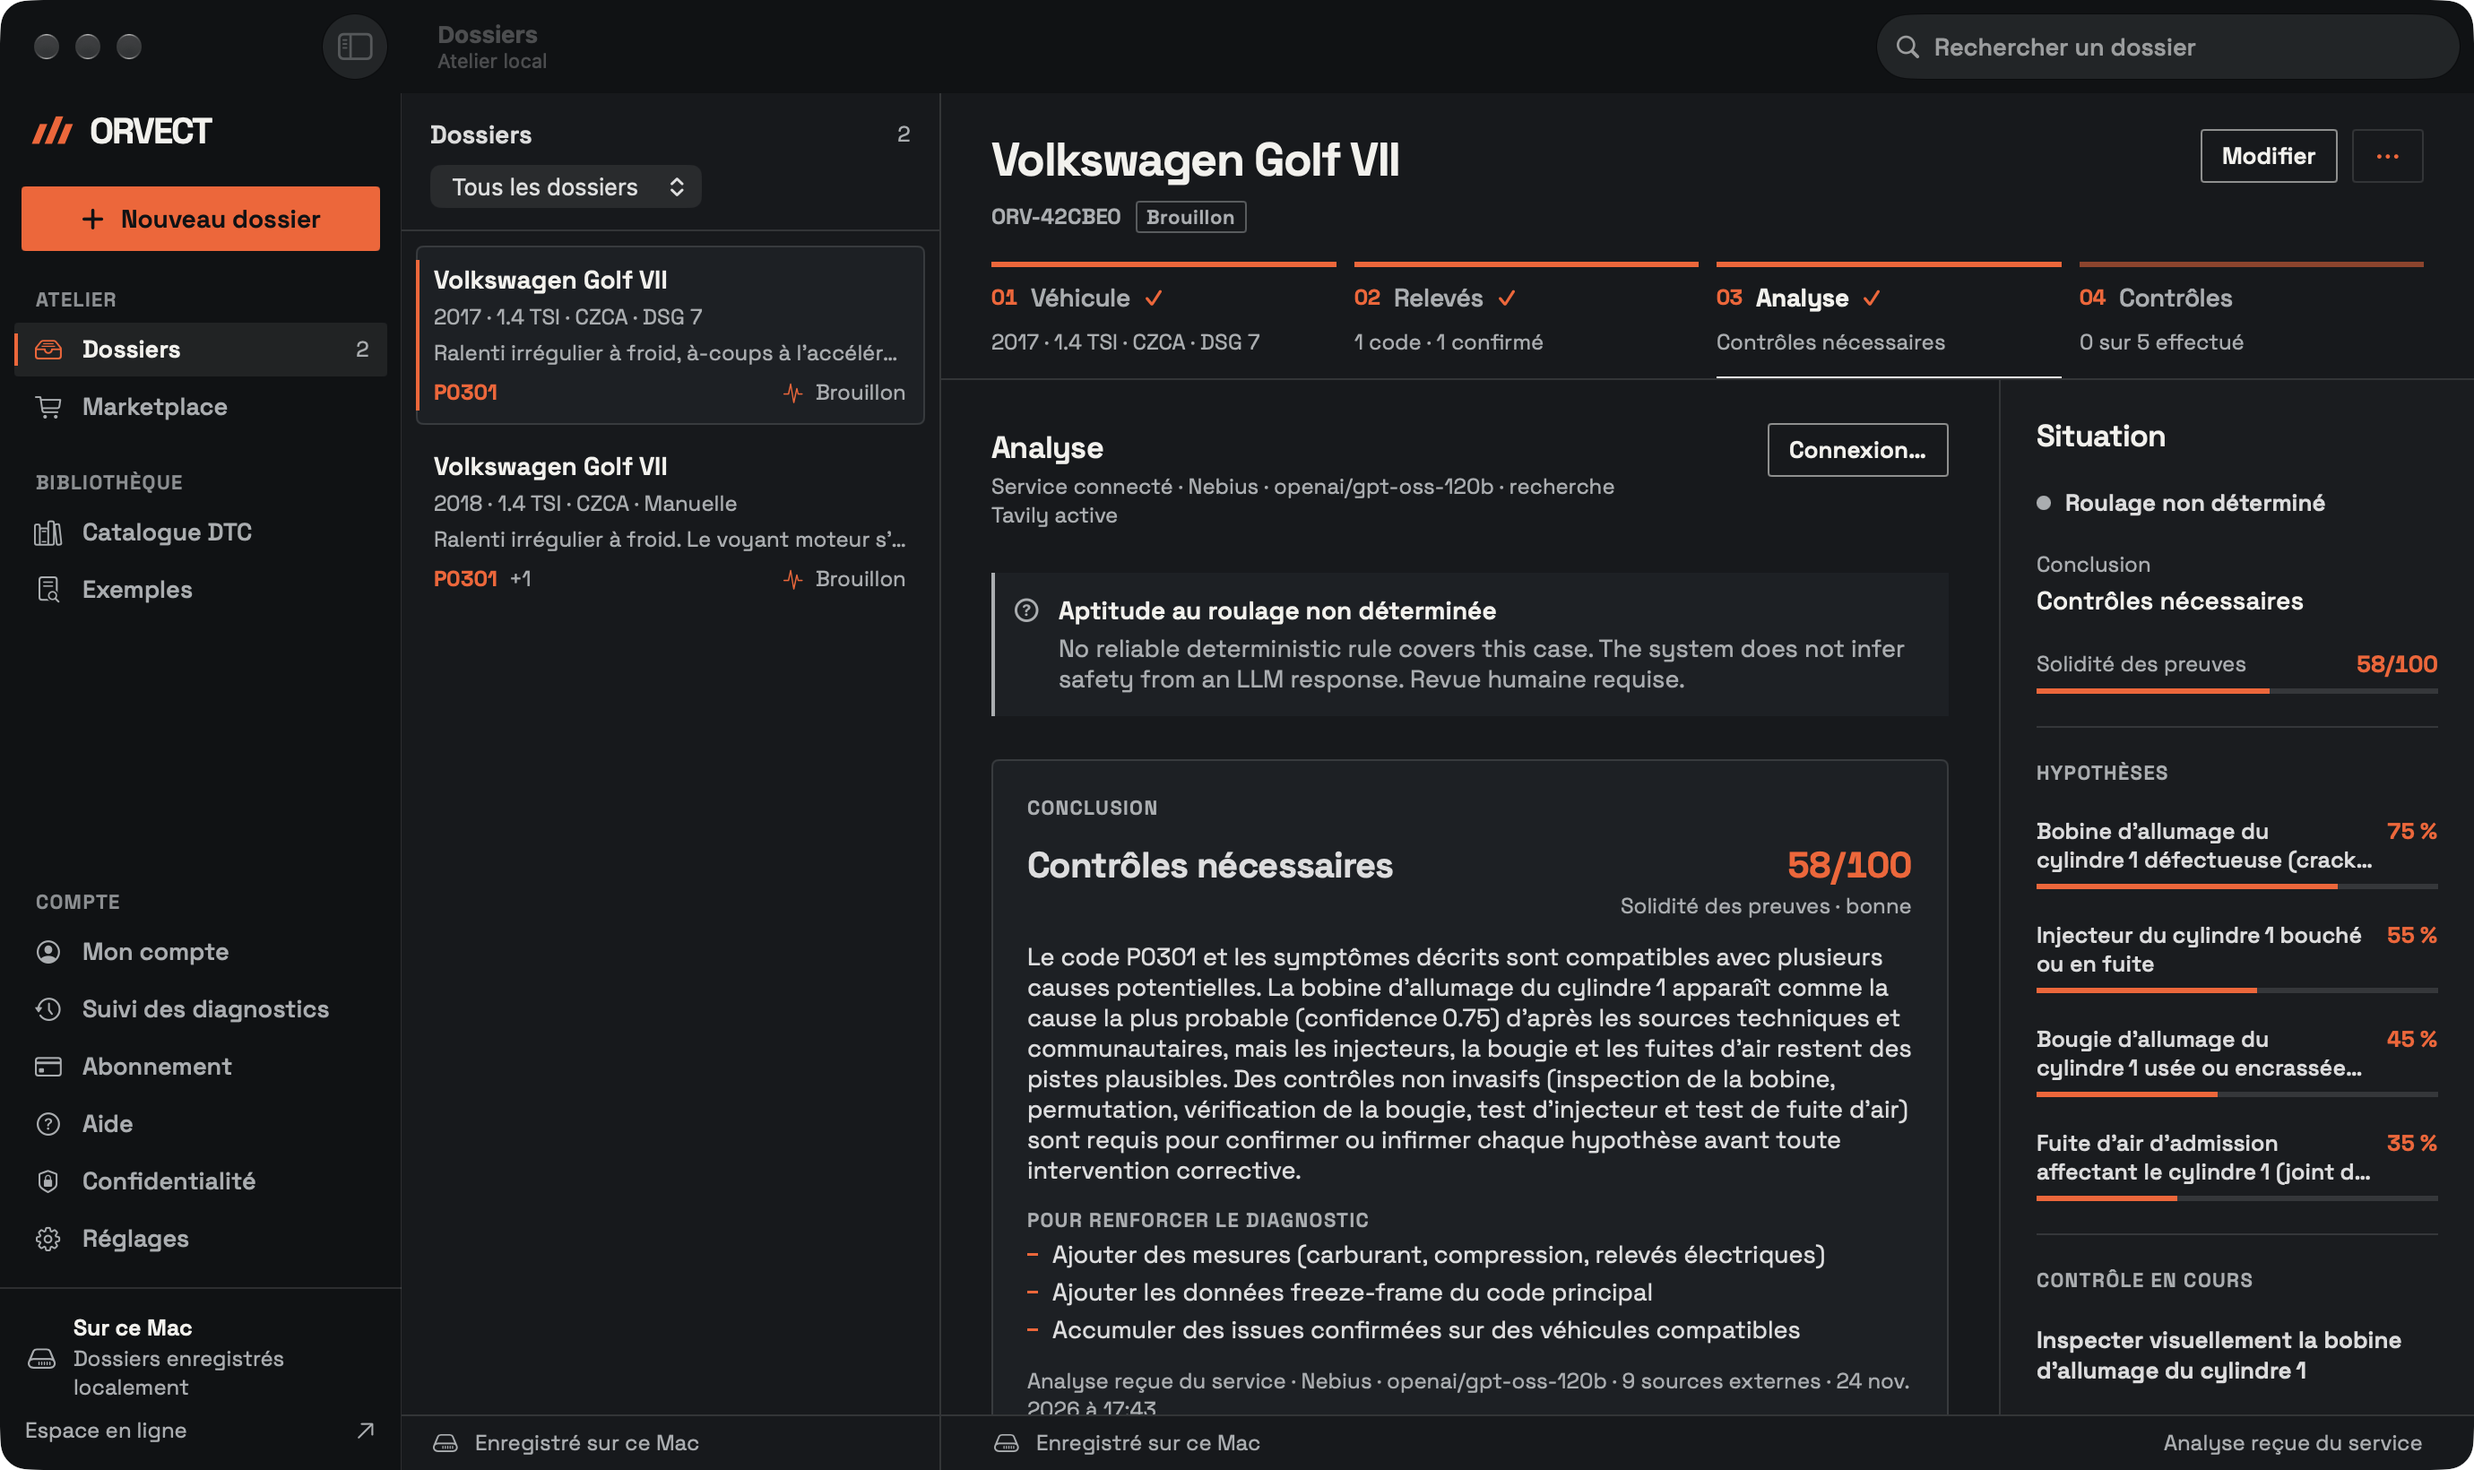
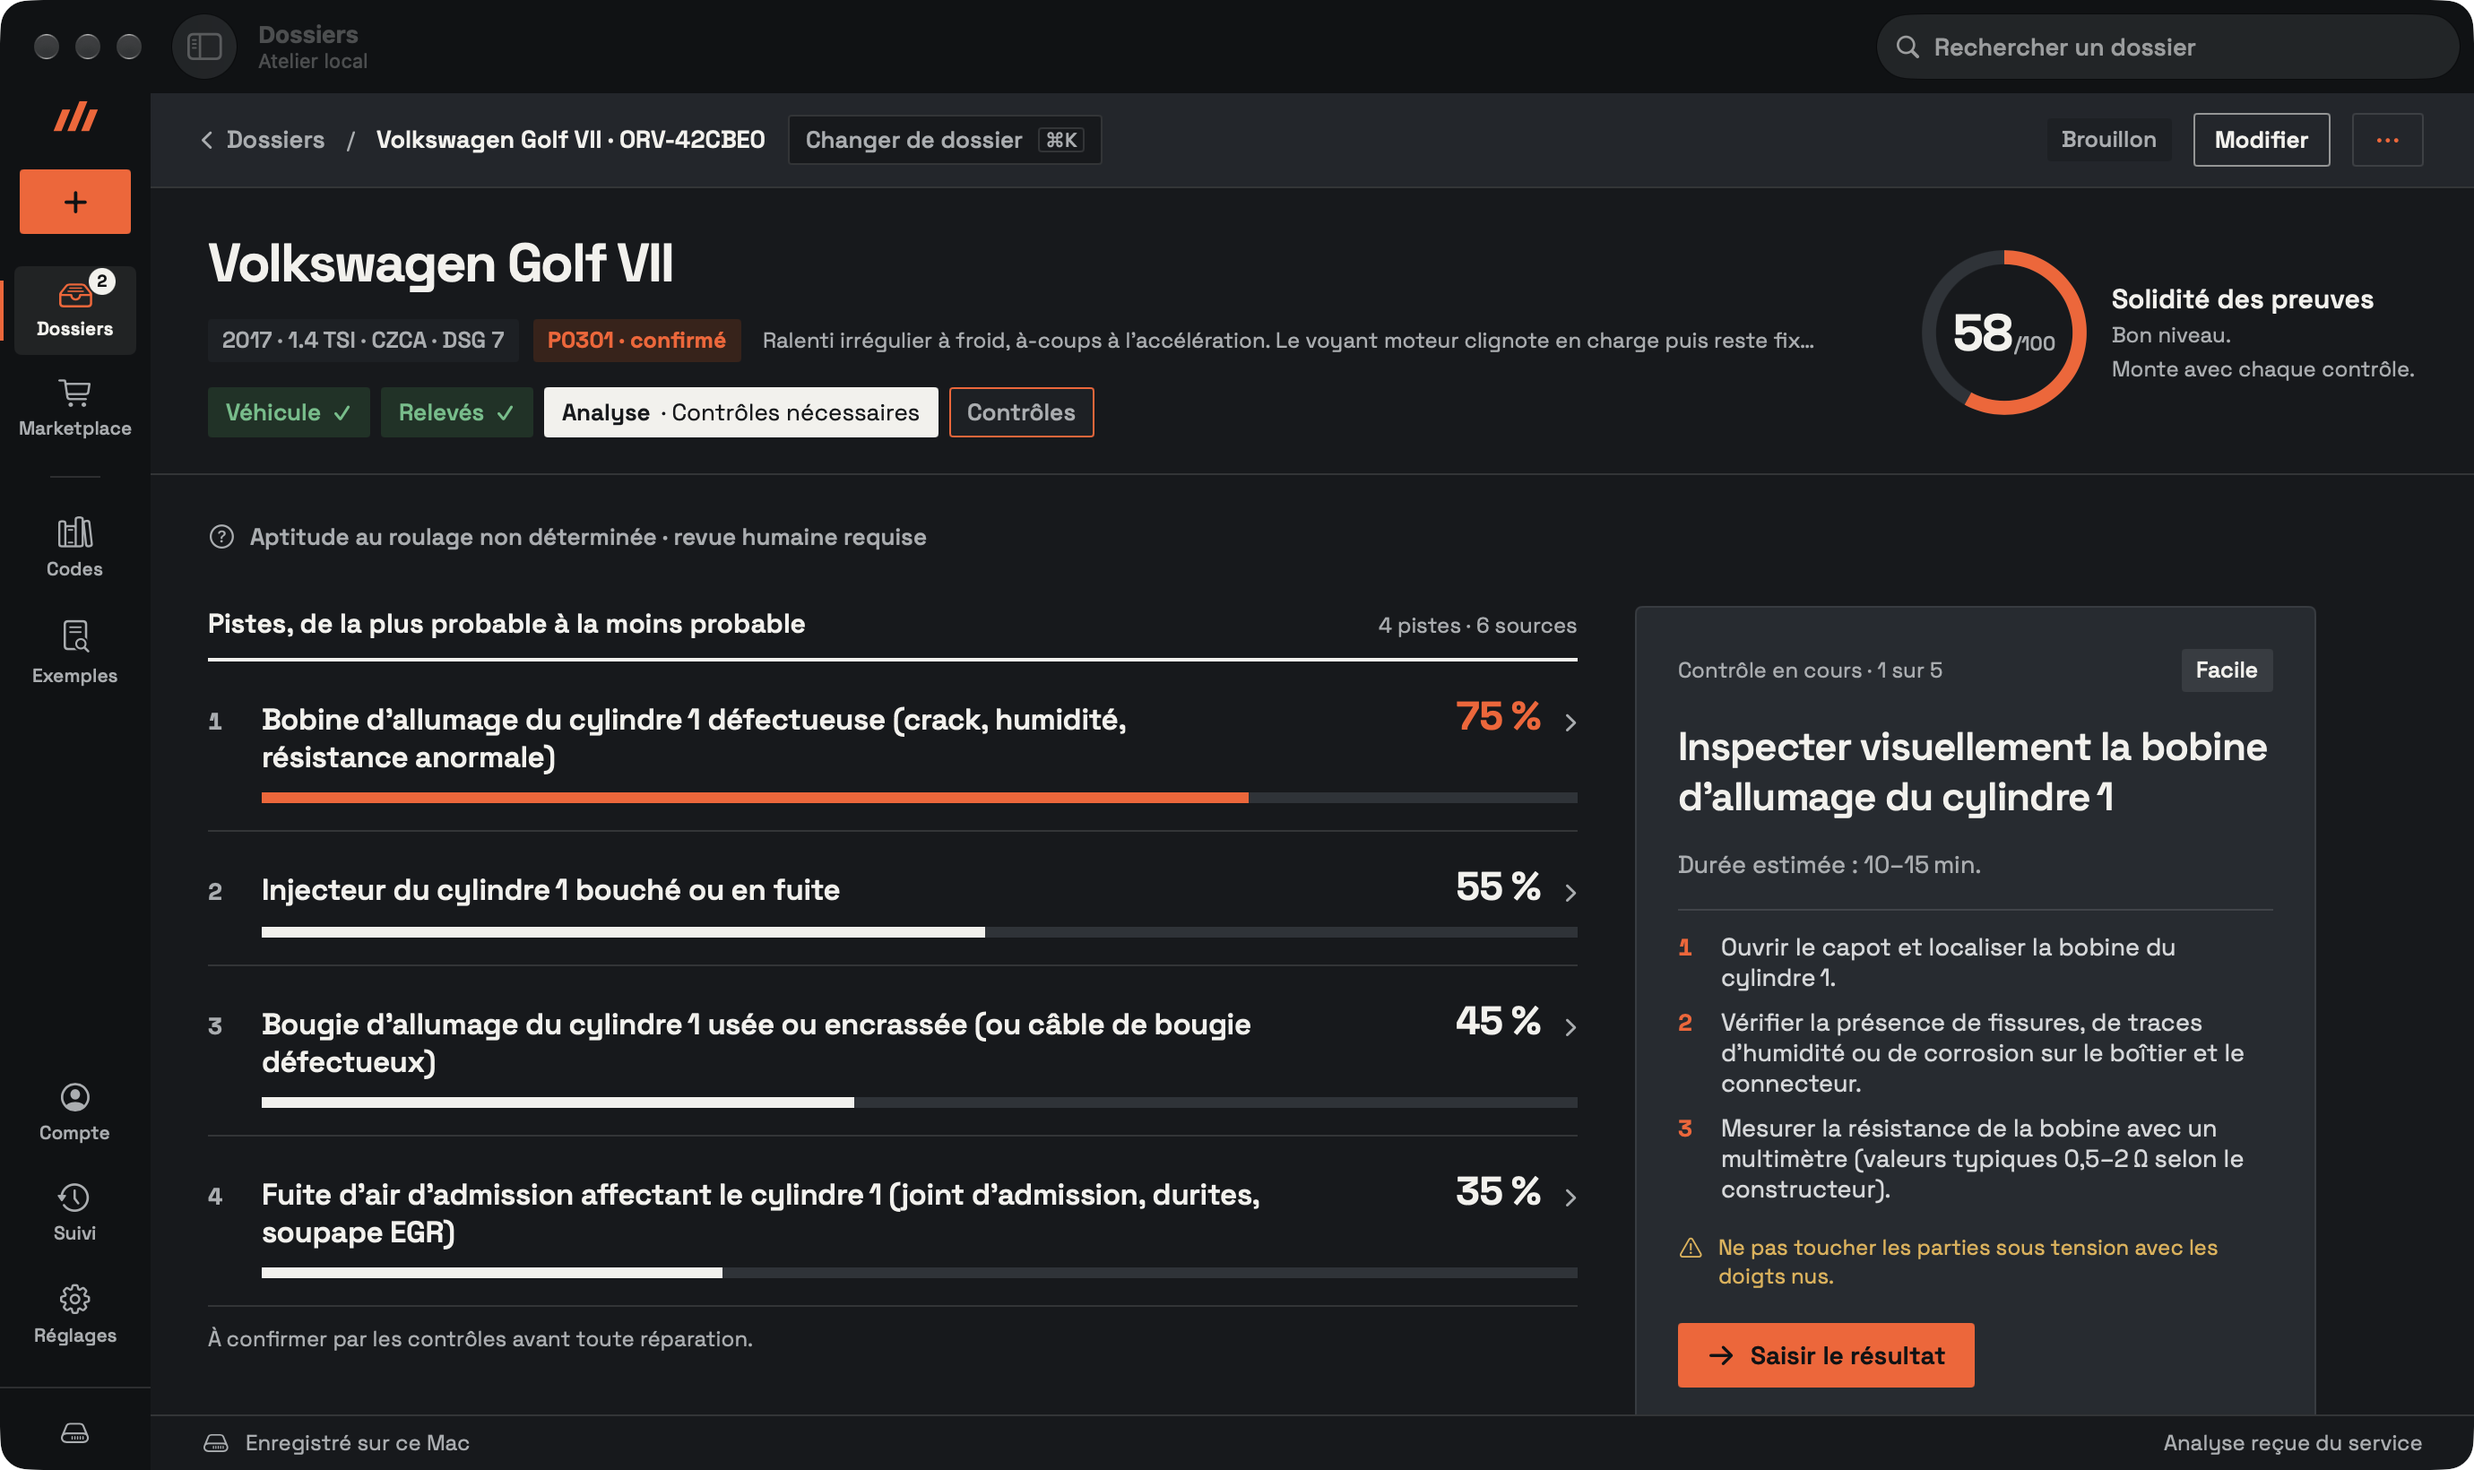
Landing: Mac captures from the redesigned app (leads beside the current check, evidence ring)

diff --git a/index.html b/index.html
@@ -104,7 +104,7 @@
 
   <section class="cases wrap" aria-labelledby="mac-title">
     <figure class="shot" data-reveal>
-      <div class="shot-frame"><img src="v2/assets/mac-analyse-fr.png" width="2760" height="1640" loading="lazy" alt="App ORVECT pour Mac : analyse d’un raté au cylindre 1 sur une Golf VII 1.4 TSI. Quatre hypothèses classées avec leur probabilité, de la bobine d’allumage à 75 % à une fuite d’air à 35 %, et le premier contrôle proposé."></div>
+      <div class="shot-frame"><img src="v2/assets/mac-analyse-fr.png?v=2" width="2760" height="1640" loading="lazy" alt="App ORVECT pour Mac : analyse d’un raté au cylindre 1 sur une Golf VII 1.4 TSI. Quatre hypothèses classées avec leur probabilité, de la bobine d’allumage à 75 % à une fuite d’air à 35 %, et le premier contrôle proposé."></div>
       <figcaption>L’app ORVECT pour Mac. Capture réelle, véhicule de démonstration.</figcaption>
     </figure>
     <div class="section-head">
@@ -115,7 +115,7 @@
 
   <section class="cases cases-flip wrap" aria-labelledby="check-title">
     <figure class="shot" data-reveal>
-      <div class="shot-frame"><img src="v2/assets/mac-controle-fr.png" width="2760" height="1640" loading="lazy" alt="Étape Contrôles de l’app ORVECT pour Mac : inspecter visuellement la bobine d’allumage du cylindre 1, avec la durée estimée, les consignes de sécurité, la procédure et les outils."></div>
+      <div class="shot-frame"><img src="v2/assets/mac-controle-fr.png?v=2" width="2760" height="1640" loading="lazy" alt="Étape Contrôles de l’app ORVECT pour Mac : inspecter visuellement la bobine d’allumage du cylindre 1, avec la durée estimée, les consignes de sécurité, la procédure et les outils."></div>
       <figcaption>Le contrôle en cours, pas à pas. Capture réelle.</figcaption>
     </figure>
     <div class="section-head">
